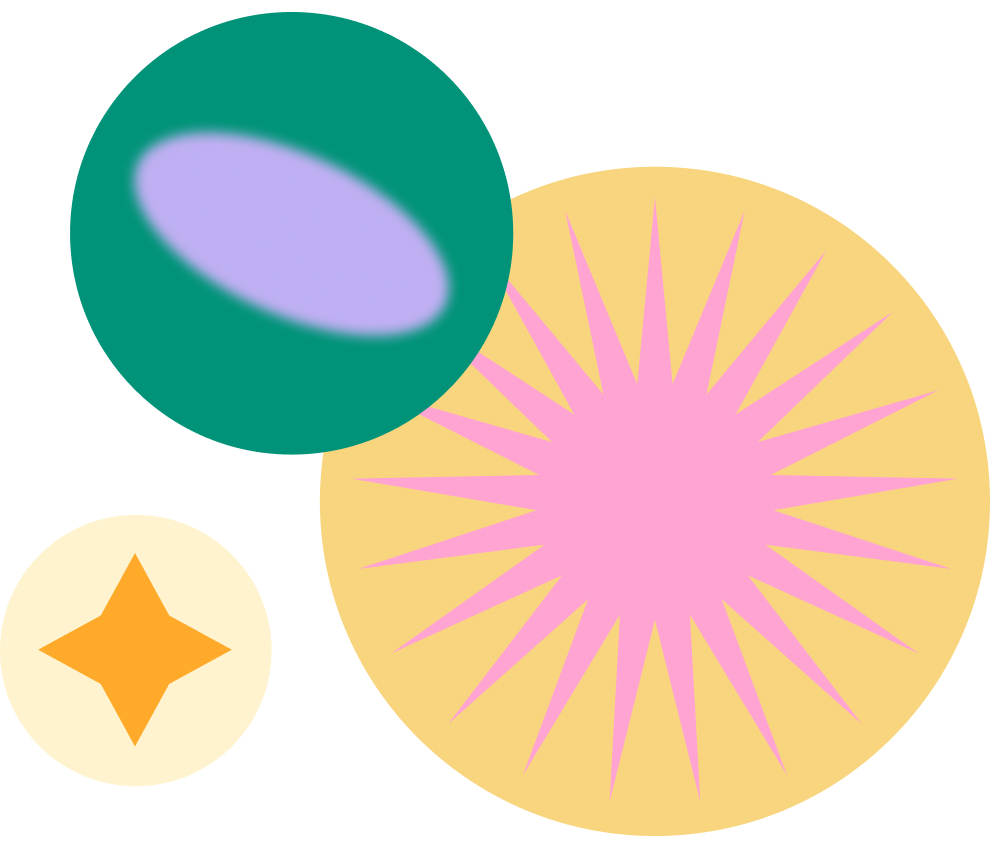
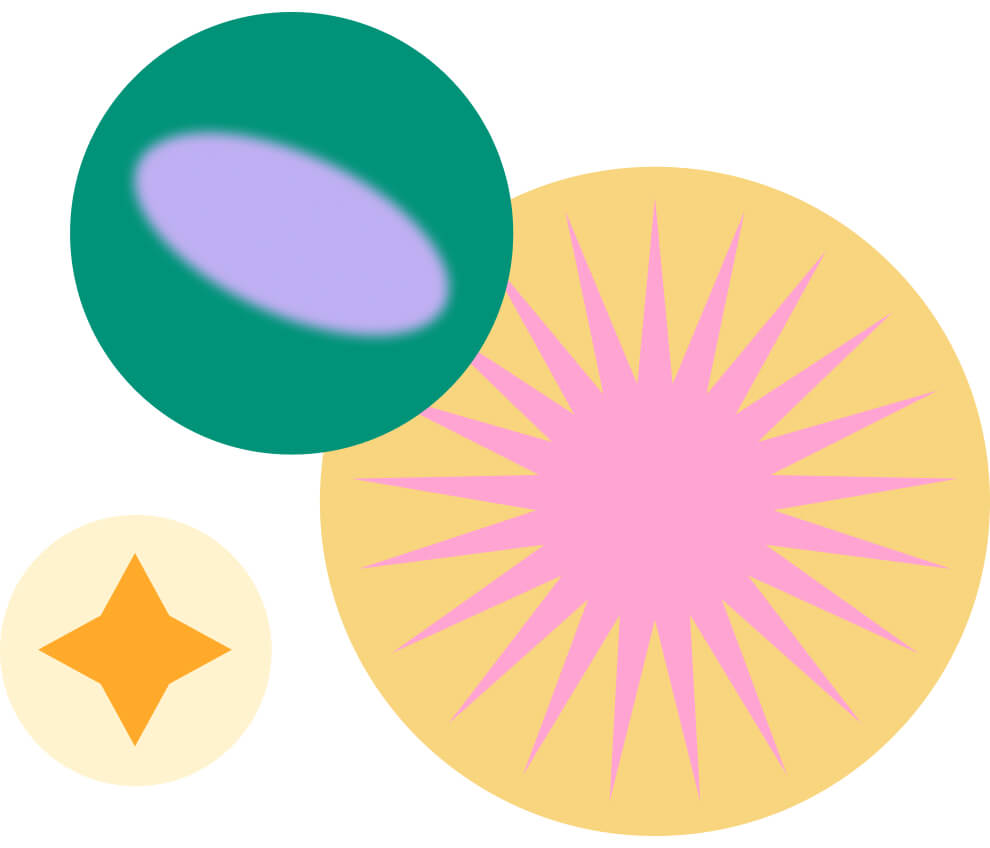
Changes to attribute styling and image compression

diff --git a/src/components/Card/Card.tsx b/src/components/Card/Card.tsx
@@ -1,20 +1,20 @@
 import React from 'react';
 import './Card.css';
-import PlaceHolder from '../../images/Image placeholder.jpg';
-import PlaceHolder1 from '../../images/Image placeholder_1.jpg';
-import PlaceHolder2 from '../../images/Image placeholder_2.jpg';
+import PlaceHolder from '../../images/Image_placeholder.jpg';
+import PlaceHolder1 from '../../images/Image_placeholder_1.jpg';
+import PlaceHolder2 from '../../images/Image_placeholder_2.jpg';
 
 type CardProps = {
   cardIng: string;
 };
 function Card({ cardIng }: CardProps) {
   return (
-    <div className="skillCard">
-      <div className="skillCard_img">
+    <div className="skill_card">
+      <div className="skill_card__img">
         <img src={cardIng} alt="" />
       </div>
 
-      <div className="skillCard_text">
+      <div className="skill_card__text">
         <section>
           Lorem ipsum dolor sit amet, consectetur adipisicing elit. Animi,
           facere id incidunt, iure neque non officia officiis quae rerum
@@ -28,7 +28,7 @@ function Card({ cardIng }: CardProps) {
 
 export default function GalleryCard() {
   return (
-    <div className="skillCard-gallery">
+    <div className="skill_card-gallery">
       <Card cardIng={PlaceHolder} />
       <Card cardIng={PlaceHolder1} />
       <Card cardIng={PlaceHolder2} />

diff --git a/src/components/Header/Header.tsx b/src/components/Header/Header.tsx
@@ -1,20 +1,20 @@
 import React from 'react';
 import './Header.css';
-import headerImage from '../../images/header_image.jpg';
+import HeaderImage from '../../images/header_image.jpg';
 
 export default function Header() {
   return (
-    <div className="hero_image">
-      <div className="header_text">
+    <div className="hero__image">
+      <div className="header__text">
         <section>
           <p className="text">Branding | Image making </p>
-          <span className="text main_text">My awesome portfolio</span>
+          <span className="text main__text">My awesome portfolio</span>
           <p className="text">And I made it myself! Yes. In Figma with Anima</p>
         </section>
       </div>
 
-      <div className="header_image">
-        <img src={headerImage} alt="" />
+      <div className="header__image">
+        <img src={HeaderImage} alt="" />
       </div>
     </div>
   );

diff --git a/src/components/Header/Header.css b/src/components/Header/Header.css
@@ -1,4 +1,4 @@
-.hero_image{
+.hero__image{
     display: flex;
     padding: 100px;
     gap: 10px;
@@ -6,15 +6,15 @@
     /*background-color: khaki;*/
 
 }
-.header_image img{
+.header__image img{
     height: 424px;
 }
-.header_text{
+.header__text{
     align-items: center;
 }
 .text{
     font-size: 17px;
 }
-.main_text{
+.main__text{
     font-size: 80px;
 }

diff --git a/src/components/App/App.tsx b/src/components/App/App.tsx
@@ -6,11 +6,11 @@ import GalleryCard from '../Card/Card';
 
 export default function App() {
   return (
-    <div>
+    <>
       <Navigation />
       <Header />
       <GalleryLogo />
       <GalleryCard />
-    </div>
+    </>
   );
 }

diff --git a/src/components/Card/Card.css b/src/components/Card/Card.css
@@ -1,7 +1,7 @@
-.skillCard-gallery{
+.skill_card-gallery{
     display: flex;
     padding: 180px 140px;
 }
-.skillCard_img{
+.skill_card__img{
     text-align: center;
 }
